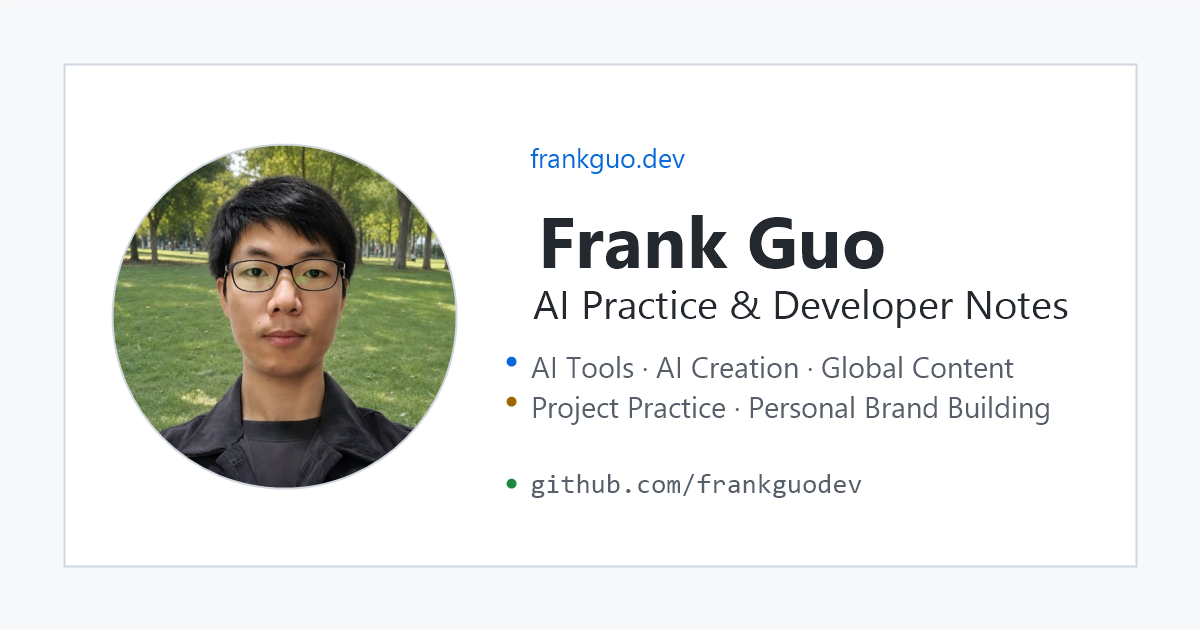
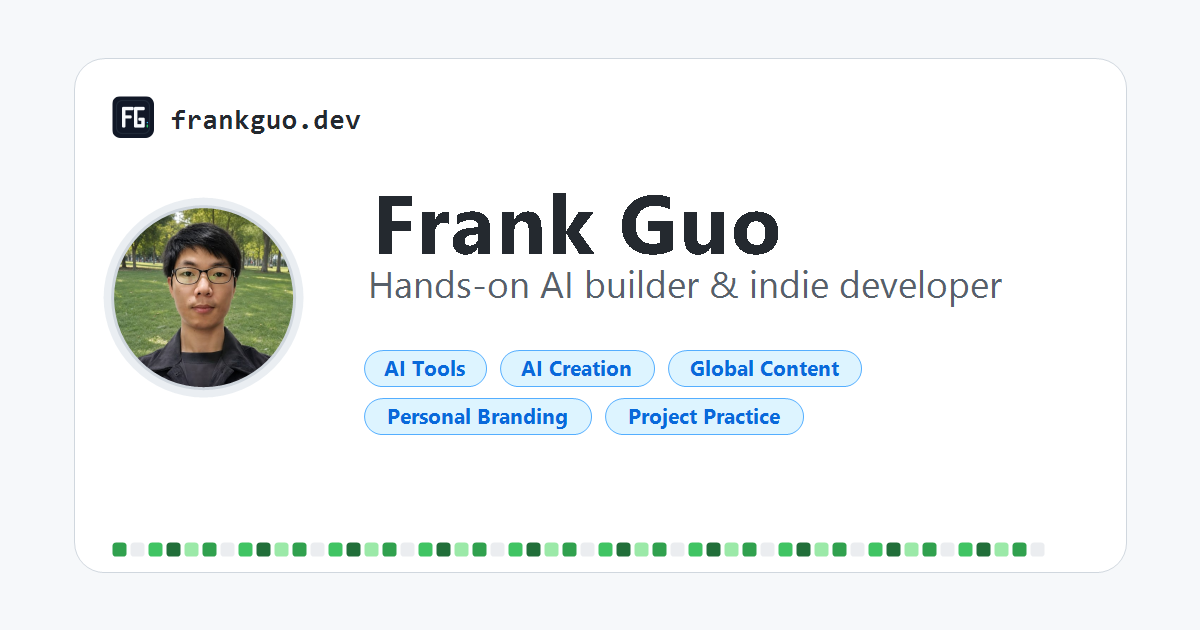
页面优化

diff --git a/zh/index.html b/zh/index.html
@@ -4,13 +4,13 @@
   <meta charset="utf-8">
   <meta name="viewport" content="width=device-width, initial-scale=1">
   <title>Frank Guo · AI 实践者与独立开发者</title>
-  <meta name="description" content="Frank Guo 是 AI 实践者与独立开发者，关注 AI 工具、AI 创作、内容出海、个人品牌构建、项目开发实战与隐私安全。">
+  <meta name="description" content="Frank Guo 是 AI 实践者与独立开发者，关注 AI 工具、AI 创作、内容出海、个人品牌构建与项目开发实战。">
   <meta name="theme-color" content="#ffffff">
   <meta name="author" content="Frank Guo">
   <meta name="robots" content="index, follow">
-  <meta name="keywords" content="Frank Guo, frankguodev, AI 工作流, 开发者笔记, 独立开发, AI 工具, AI 创作, 内容出海, 个人品牌构建, 项目开发实战, 隐私安全">
+  <meta name="keywords" content="Frank Guo, frankguodev, AI 工作流, 开发者笔记, 独立开发, AI 工具, AI 创作, 内容出海, 个人品牌构建, 项目开发实战">
   <meta property="og:title" content="Frank Guo">
-  <meta property="og:description" content="AI 实践者与独立开发者，关注 AI 工具、AI 创作、内容出海、个人品牌构建、项目开发实战与隐私安全。">
+  <meta property="og:description" content="AI 实践者与独立开发者，关注 AI 工具、AI 创作、内容出海、个人品牌构建与项目开发实战。">
   <meta property="og:type" content="website">
   <meta property="og:url" content="https://frankguo.dev/zh/">
   <meta property="og:site_name" content="Frank Guo">
@@ -22,7 +22,7 @@
   <meta property="og:image:alt" content="Frank Guo，AI 实践者与独立开发者">
   <meta name="twitter:card" content="summary_large_image">
   <meta name="twitter:title" content="Frank Guo · AI 实践者与独立开发者">
-  <meta name="twitter:description" content="AI 实践者与独立开发者，关注 AI 工具、AI 创作、内容出海、个人品牌构建、项目开发实战与隐私安全。">
+  <meta name="twitter:description" content="AI 实践者与独立开发者，关注 AI 工具、AI 创作、内容出海、个人品牌构建与项目开发实战。">
   <meta name="twitter:image" content="https://frankguo.dev/og-image.png">
   <meta name="twitter:image:alt" content="Frank Guo，AI 实践者与独立开发者">
   <link rel="canonical" href="https://frankguo.dev/zh/">
@@ -49,7 +49,7 @@
           "url": "https://frankguo.dev/",
           "image": "https://frankguo.dev/owner-image-1024.jpg",
           "jobTitle": "AI 实践者与独立开发者",
-          "description": "Frank Guo 是 AI 实践者与独立开发者，关注 AI 工具、AI 创作、内容出海、个人品牌构建、项目开发实战与隐私安全。",
+          "description": "Frank Guo 是 AI 实践者与独立开发者，关注 AI 工具、AI 创作、内容出海、个人品牌构建与项目开发实战。",
           "sameAs": [
             "https://github.com/frankguodev",
             "https://frankguo.com"
@@ -60,7 +60,6 @@
             "内容出海",
             "个人品牌构建",
             "项目开发实战",
-            "隐私安全",
             "独立开发"
           ]
         },
@@ -69,7 +68,7 @@
           "@id": "https://frankguo.dev/#website",
           "url": "https://frankguo.dev/",
           "name": "Frank Guo",
-          "description": "Frank Guo 的 AI 工作流、AI 创作、内容出海、个人品牌构建、项目开发实战与隐私安全入口。",
+          "description": "Frank Guo 的 AI 工作流、AI 创作、内容出海、个人品牌构建与项目开发实战入口。",
           "publisher": {
             "@id": "https://frankguo.dev/#person"
           },
@@ -356,7 +355,8 @@
       stroke-width: 1.8;
     }
 
-    .profile-links a {
+    .profile-links a,
+    .profile-links span {
       color: var(--muted);
       min-width: 0;
       overflow-wrap: anywhere;
@@ -563,7 +563,7 @@
           </div>
         </div>
 
-        <p class="bio">AI 实践者与独立开发者，关注 AI 工具、AI 创作、内容出海、个人品牌构建、项目开发实战与隐私安全。</p>
+        <p class="bio">AI 实践者与独立开发者，关注 AI 工具、AI 创作、内容出海、个人品牌构建与项目开发实战。</p>
 
         <ul class="profile-links" aria-label="个人链接">
           <li>
@@ -573,7 +573,23 @@
             </svg>
             <a href="mailto:hello@frankguo.com">hello@frankguo.com</a>
           </li>
+          <!-- <li>
+            <svg viewBox="0 0 16 16" aria-hidden="true" fill="none" stroke="currentColor" stroke-linecap="round" stroke-linejoin="round">
+              <path d="M6.6 3.2c-2.5 0-4.5 1.6-4.5 3.7 0 1.2.7 2.3 1.8 3l-.4 1.7 1.8-.9c.4.1.8.1 1.3.1 2.5 0 4.5-1.6 4.5-3.7s-2-3.9-4.5-3.9Z"></path>
+              <path d="M10.2 6.1c2.1.2 3.7 1.6 3.7 3.4 0 1-.6 2-1.5 2.6l.3 1.4-1.5-.7c-.4.1-.8.2-1.2.2-1.6 0-3-.7-3.7-1.8"></path>
+              <path d="M4.8 6.9h0M8.2 6.9h0"></path>
+            </svg>
+            <span>微信：frankguo_AI</span>
+          </li> -->
           <li>
+            <svg viewBox="0 0 16 16" aria-hidden="true" fill="none" stroke="currentColor" stroke-linecap="round" stroke-linejoin="round">
+              <circle cx="8" cy="6.6" r="3.6"></circle>
+              <path d="M4.6 10.2 3.3 13M11.4 10.2l1.3 2.8M5.3 13.2h5.4"></path>
+              <path d="M5.4 6.7h0M10.6 6.7h0"></path>
+            </svg>
+            <span>QQ：2411510700</span>
+          </li>
+          <!-- <li>
             <svg viewBox="0 0 16 16" aria-hidden="true" fill="none" stroke="currentColor" stroke-linecap="round" stroke-linejoin="round">
               <circle cx="8" cy="8" r="6"></circle>
               <path d="M2.5 8h11M8 2.2c1.7 1.6 2.5 3.5 2.5 5.8s-.8 4.2-2.5 5.8C6.3 12.2 5.5 10.3 5.5 8S6.3 3.8 8 2.2Z"></path>
@@ -586,7 +602,7 @@
               <path d="M9.3 2.2h4.5v4.5M13.6 2.4 7.4 8.6"></path>
             </svg>
             <a href="https://zhizhi.xyz">zhizhi.xyz</a>
-          </li>
+          </li> -->
         </ul>
 
       </aside>
@@ -596,8 +612,8 @@
           <div class="markdown-body">
             <h2>你好，我是 Frank Guo。</h2>
             <p>
-              我是 AI 实践者与独立开发者，关注 AI 工具、AI 创作、内容出海、个人品牌构建、
-              项目开发实战与隐私安全。
+              我是 AI 实践者与独立开发者，关注 AI 工具、AI 创作、内容出海、
+              个人品牌构建与项目开发实战。
             </p>
             <p>
               这里是我个人技术品牌的入口，连接 GitHub 仓库、可复用工作流、实践笔记、
@@ -611,7 +627,6 @@
               <li><strong>内容出海：</strong>英文优先的发布系统、内容运营与海外增长实验。</li>
               <li><strong>个人品牌：</strong>GitHub 门面、独立站、身份系统与公开表达。</li>
               <li><strong>项目实战：</strong>实现笔记、上线清单、可复用模板与真实发布记录。</li>
-              <li><strong>隐私安全：</strong>账号、域名、邮箱身份和个人数字基础设施。</li>
             </ul>
 
             <div class="pill-row" aria-label="主题">
@@ -620,14 +635,13 @@
               <span class="pill">内容出海</span>
               <span class="pill">个人品牌</span>
               <span class="pill">项目实战</span>
-              <span class="pill">隐私安全</span>
             </div>
           </div>
         </article>
 
         <section class="contrib" id="activity" aria-label="当前构建概览">
           <div class="contrib-head">
-            <span>正在构建 · AI 实践、内容系统、个人品牌与更安全的数字基础设施</span>
+            <span>正在构建 · AI 实践、内容系统、个人品牌与项目实战</span>
             <a href="https://github.com/frankguodev">GitHub</a>
           </div>
           <div class="heatmap" aria-hidden="true">

diff --git a/index.html b/index.html
@@ -4,13 +4,13 @@
   <meta charset="utf-8">
   <meta name="viewport" content="width=device-width, initial-scale=1">
   <title>Frank Guo · AI Practitioner & Indie Developer</title>
-  <meta name="description" content="Frank Guo is a hands-on AI builder and indie developer building practical AI workflows, AI creation systems, global content, personal branding, project practice, and privacy-conscious digital life.">
+  <meta name="description" content="Frank Guo is a hands-on AI builder and indie developer building practical AI workflows, AI creation systems, global content, personal branding, and project practice.">
   <meta name="theme-color" content="#ffffff">
   <meta name="author" content="Frank Guo">
   <meta name="robots" content="index, follow">
-  <meta name="keywords" content="Frank Guo, frankguodev, AI workflows, developer notes, indie development, AI tools, AI creation, global content, personal branding, project practice, privacy security">
+  <meta name="keywords" content="Frank Guo, frankguodev, AI workflows, developer notes, indie development, AI tools, AI creation, global content, personal branding, project practice">
   <meta property="og:title" content="Frank Guo">
-  <meta property="og:description" content="Hands-on AI builder and indie developer focused on AI tools, AI creation, global content, personal branding, project practice, and privacy.">
+  <meta property="og:description" content="Hands-on AI builder and indie developer focused on AI tools, AI creation, global content, personal branding, and project practice.">
   <meta property="og:type" content="website">
   <meta property="og:url" content="https://frankguo.dev/">
   <meta property="og:site_name" content="Frank Guo">
@@ -21,7 +21,7 @@
   <meta property="og:image:alt" content="Frank Guo, hands-on AI builder and indie developer">
   <meta name="twitter:card" content="summary_large_image">
   <meta name="twitter:title" content="Frank Guo · AI Practitioner & Indie Developer">
-  <meta name="twitter:description" content="Hands-on AI builder and indie developer focused on AI tools, AI creation, global content, personal branding, project practice, and privacy.">
+  <meta name="twitter:description" content="Hands-on AI builder and indie developer focused on AI tools, AI creation, global content, personal branding, and project practice.">
   <meta name="twitter:image" content="https://frankguo.dev/og-image.png">
   <meta name="twitter:image:alt" content="Frank Guo, hands-on AI builder and indie developer">
   <link rel="canonical" href="https://frankguo.dev/">
@@ -48,7 +48,7 @@
           "url": "https://frankguo.dev/",
           "image": "https://frankguo.dev/owner-image-1024.jpg",
           "jobTitle": "AI Practitioner and Indie Developer",
-          "description": "Frank Guo is a hands-on AI builder and indie developer building practical AI workflows, AI creation systems, global content, personal branding, project practice, and privacy-conscious digital life.",
+          "description": "Frank Guo is a hands-on AI builder and indie developer building practical AI workflows, AI creation systems, global content, personal branding, and project practice.",
           "sameAs": [
             "https://github.com/frankguodev",
             "https://frankguo.com"
@@ -59,7 +59,6 @@
             "Global content",
             "Personal branding",
             "Project practice",
-            "Privacy security",
             "Indie development"
           ]
         },
@@ -68,7 +67,7 @@
           "@id": "https://frankguo.dev/#website",
           "url": "https://frankguo.dev/",
           "name": "Frank Guo",
-          "description": "A developer-focused site for Frank Guo's AI workflows, creation systems, global content, personal branding, project practice, and privacy-conscious digital life.",
+          "description": "A developer-focused site for Frank Guo's AI workflows, creation systems, global content, personal branding, and project practice.",
           "publisher": {
             "@id": "https://frankguo.dev/#person"
           },
@@ -355,7 +354,8 @@
       stroke-width: 1.8;
     }
 
-    .profile-links a {
+    .profile-links a,
+    .profile-links span {
       color: var(--muted);
       min-width: 0;
       overflow-wrap: anywhere;
@@ -572,7 +572,23 @@
             </svg>
             <a href="mailto:hello@frankguo.com">hello@frankguo.com</a>
           </li>
+          <!-- <li>
+            <svg viewBox="0 0 16 16" aria-hidden="true" fill="none" stroke="currentColor" stroke-linecap="round" stroke-linejoin="round">
+              <path d="M6.6 3.2c-2.5 0-4.5 1.6-4.5 3.7 0 1.2.7 2.3 1.8 3l-.4 1.7 1.8-.9c.4.1.8.1 1.3.1 2.5 0 4.5-1.6 4.5-3.7s-2-3.9-4.5-3.9Z"></path>
+              <path d="M10.2 6.1c2.1.2 3.7 1.6 3.7 3.4 0 1-.6 2-1.5 2.6l.3 1.4-1.5-.7c-.4.1-.8.2-1.2.2-1.6 0-3-.7-3.7-1.8"></path>
+              <path d="M4.8 6.9h0M8.2 6.9h0"></path>
+            </svg>
+            <span>WeChat: frankguo_AI</span>
+          </li> -->
           <li>
+            <svg viewBox="0 0 16 16" aria-hidden="true" fill="none" stroke="currentColor" stroke-linecap="round" stroke-linejoin="round">
+              <circle cx="8" cy="6.6" r="3.6"></circle>
+              <path d="M4.6 10.2 3.3 13M11.4 10.2l1.3 2.8M5.3 13.2h5.4"></path>
+              <path d="M5.4 6.7h0M10.6 6.7h0"></path>
+            </svg>
+            <span>QQ: 2411510700</span>
+          </li>
+          <!-- <li>
             <svg viewBox="0 0 16 16" aria-hidden="true" fill="none" stroke="currentColor" stroke-linecap="round" stroke-linejoin="round">
               <circle cx="8" cy="8" r="6"></circle>
               <path d="M2.5 8h11M8 2.2c1.7 1.6 2.5 3.5 2.5 5.8s-.8 4.2-2.5 5.8C6.3 12.2 5.5 10.3 5.5 8S6.3 3.8 8 2.2Z"></path>
@@ -585,7 +601,7 @@
               <path d="M9.3 2.2h4.5v4.5M13.6 2.4 7.4 8.6"></path>
             </svg>
             <a href="https://zhizhi.xyz">zhizhi.xyz</a>
-          </li>
+          </li> -->
         </ul>
 
       </aside>
@@ -596,7 +612,7 @@
             <h2>Hi, I am Frank Guo.</h2>
             <p>
               I am a hands-on AI builder and indie developer focused on practical AI tools, AI creation,
-              global content, personal branding, real project development, and privacy-conscious digital life.
+              global content, personal branding, and real project development.
             </p>
             <p>
               This is the entry point for my personal technical brand, connecting GitHub repositories,
@@ -610,7 +626,6 @@
               <li><strong>Global content:</strong> English-first publishing, content operations, and overseas growth experiments.</li>
               <li><strong>Personal branding:</strong> GitHub presence, independent websites, identity systems, and public positioning.</li>
               <li><strong>Project practice:</strong> implementation notes, launch checklists, reusable templates, and shipping records.</li>
-              <li><strong>Privacy and security:</strong> safer accounts, domains, email identity, and personal infrastructure.</li>
             </ul>
 
             <div class="pill-row" aria-label="Topics">
@@ -619,14 +634,13 @@
               <span class="pill">Global Content</span>
               <span class="pill">Personal Branding</span>
               <span class="pill">Project Practice</span>
-              <span class="pill">Privacy & Security</span>
             </div>
           </div>
         </article>
 
         <section class="contrib" id="activity" aria-label="Activity preview">
           <div class="contrib-head">
-            <span>Now building · AI practice, content systems, personal brand, and safer infrastructure</span>
+            <span>Now building · AI practice, content systems, personal brand, and project practice</span>
             <a href="https://github.com/frankguodev">GitHub</a>
           </div>
           <div class="heatmap" aria-hidden="true">

diff --git a/README.md b/README.md
@@ -1,8 +1,8 @@
 # Frank Guo
 
-AI tools, AI creation, global content, personal branding, project practice, and privacy-conscious digital life.
+AI tools, AI creation, global content, personal branding, and project practice.
 
-中文：AI 工具、AI 创作、内容出海、个人品牌构建、项目开发实战与隐私安全。
+中文：AI 工具、AI 创作、内容出海、个人品牌构建与项目开发实战。
 
 ## Focus
 
@@ -11,7 +11,6 @@ AI tools, AI creation, global content, personal branding, project practice, and 
 - Global content systems and English-first publishing
 - Personal brand building, GitHub presence, domain identity, and proof of work
 - Real project development, shipping notes, and reusable templates
-- Privacy, account security, domain identity, and email infrastructure
 
 ## Links
 
